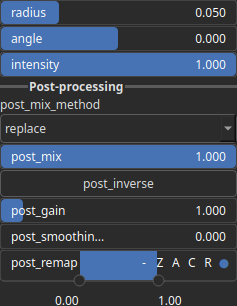
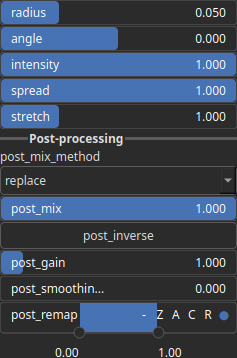
Update doc

diff --git a/docs/node_reference/nodes/DirectionalBlur.md b/docs/node_reference/nodes/DirectionalBlur.md
@@ -40,6 +40,8 @@ WIP
 |post_remap|Value range|No description|
 |post_smoothing_radius|Float|No description|
 |radius|Float|No description|
+|spread|Float|No description|
+|stretch|Float|No description|
 
 # Example
 
